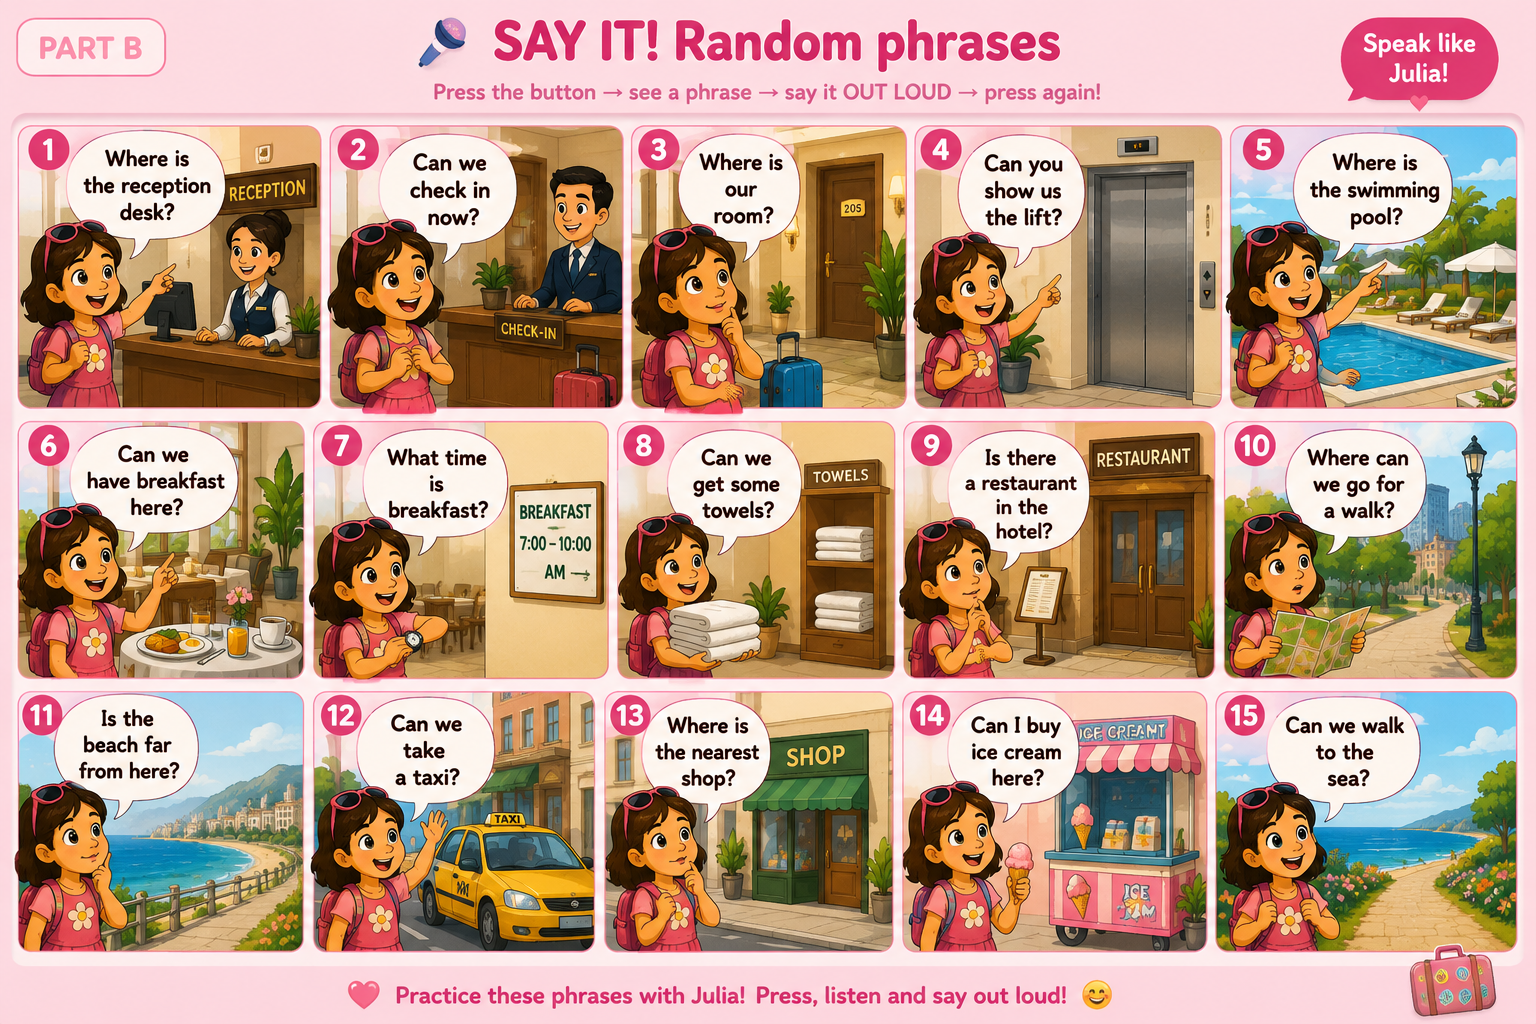
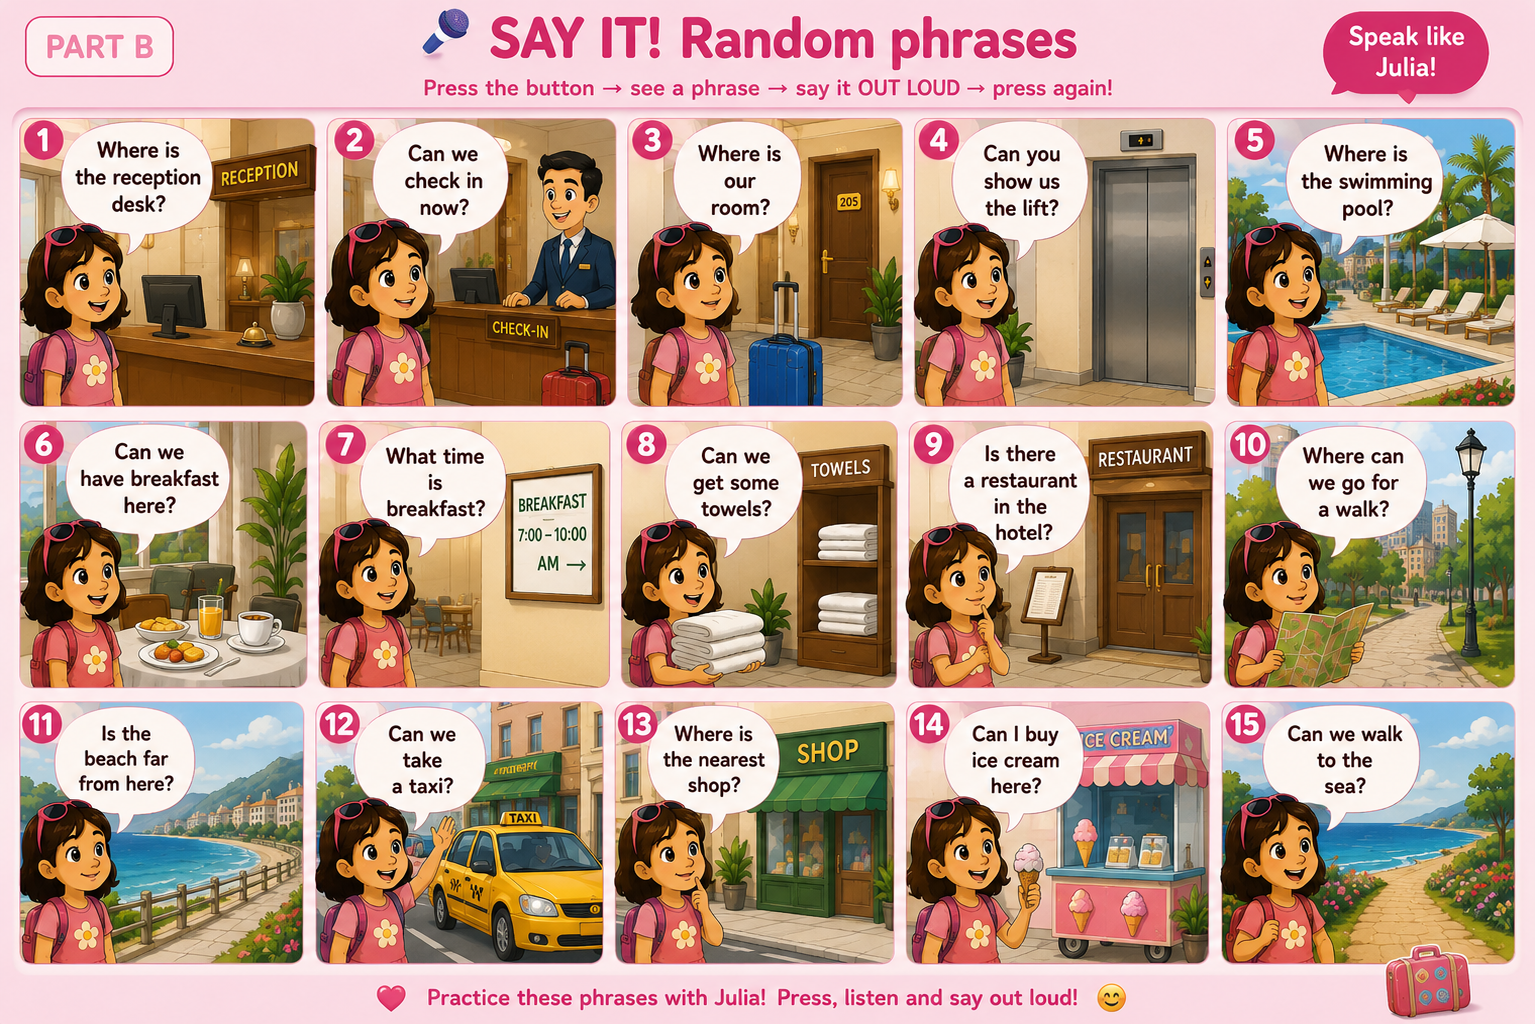
julia-bodrum: replace SAY IT! Part B comic with artifact-free hands version + cachebust v=20260618

diff --git a/lingua-boost-lab/a1/julia-goes-to-bodrum/index.html b/lingua-boost-lab/a1/julia-goes-to-bodrum/index.html
@@ -315,7 +315,7 @@ footer{max-width:1240px;margin:40px auto 24px;padding:0 clamp(16px,3vw,28px);tex
     <div class="gap-line">We stay for <select class="mcq" data-answer="7"><option value="" disabled selected>—</option><option>3</option><option>7</option><option>14</option></select> days</div>
   </div>
   <figure style="margin:18px 0 8px;border-radius:18px;overflow:hidden;box-shadow:0 8px 24px rgba(255,143,177,.25)">
-    <img src="assets/say-it-comic.png" alt="15 colourful panels of Julia saying random hotel and travel phrases in Bodrum — Part B comic" style="width:100%;display:block">
+    <img src="assets/say-it-comic.png?v=20260618" alt="15 colourful panels of Julia saying random hotel and travel phrases in Bodrum — Part B comic" style="width:100%;display:block">
   </figure>
   <p style="text-align:center;font-size:.88rem;color:var(--muted);margin:4px 0 14px">👀 Look at the 15 scenes — these are <strong style="color:var(--accent)">all the phrases</strong> that will pop up below. Ready, Julia?</p>
   <div style="background:linear-gradient(135deg,#FFD3DE,#FFB6CC);border-radius:18px;padding:20px;margin:14px 0;color:var(--ink);box-shadow:0 6px 20px rgba(255,143,177,.3)">
